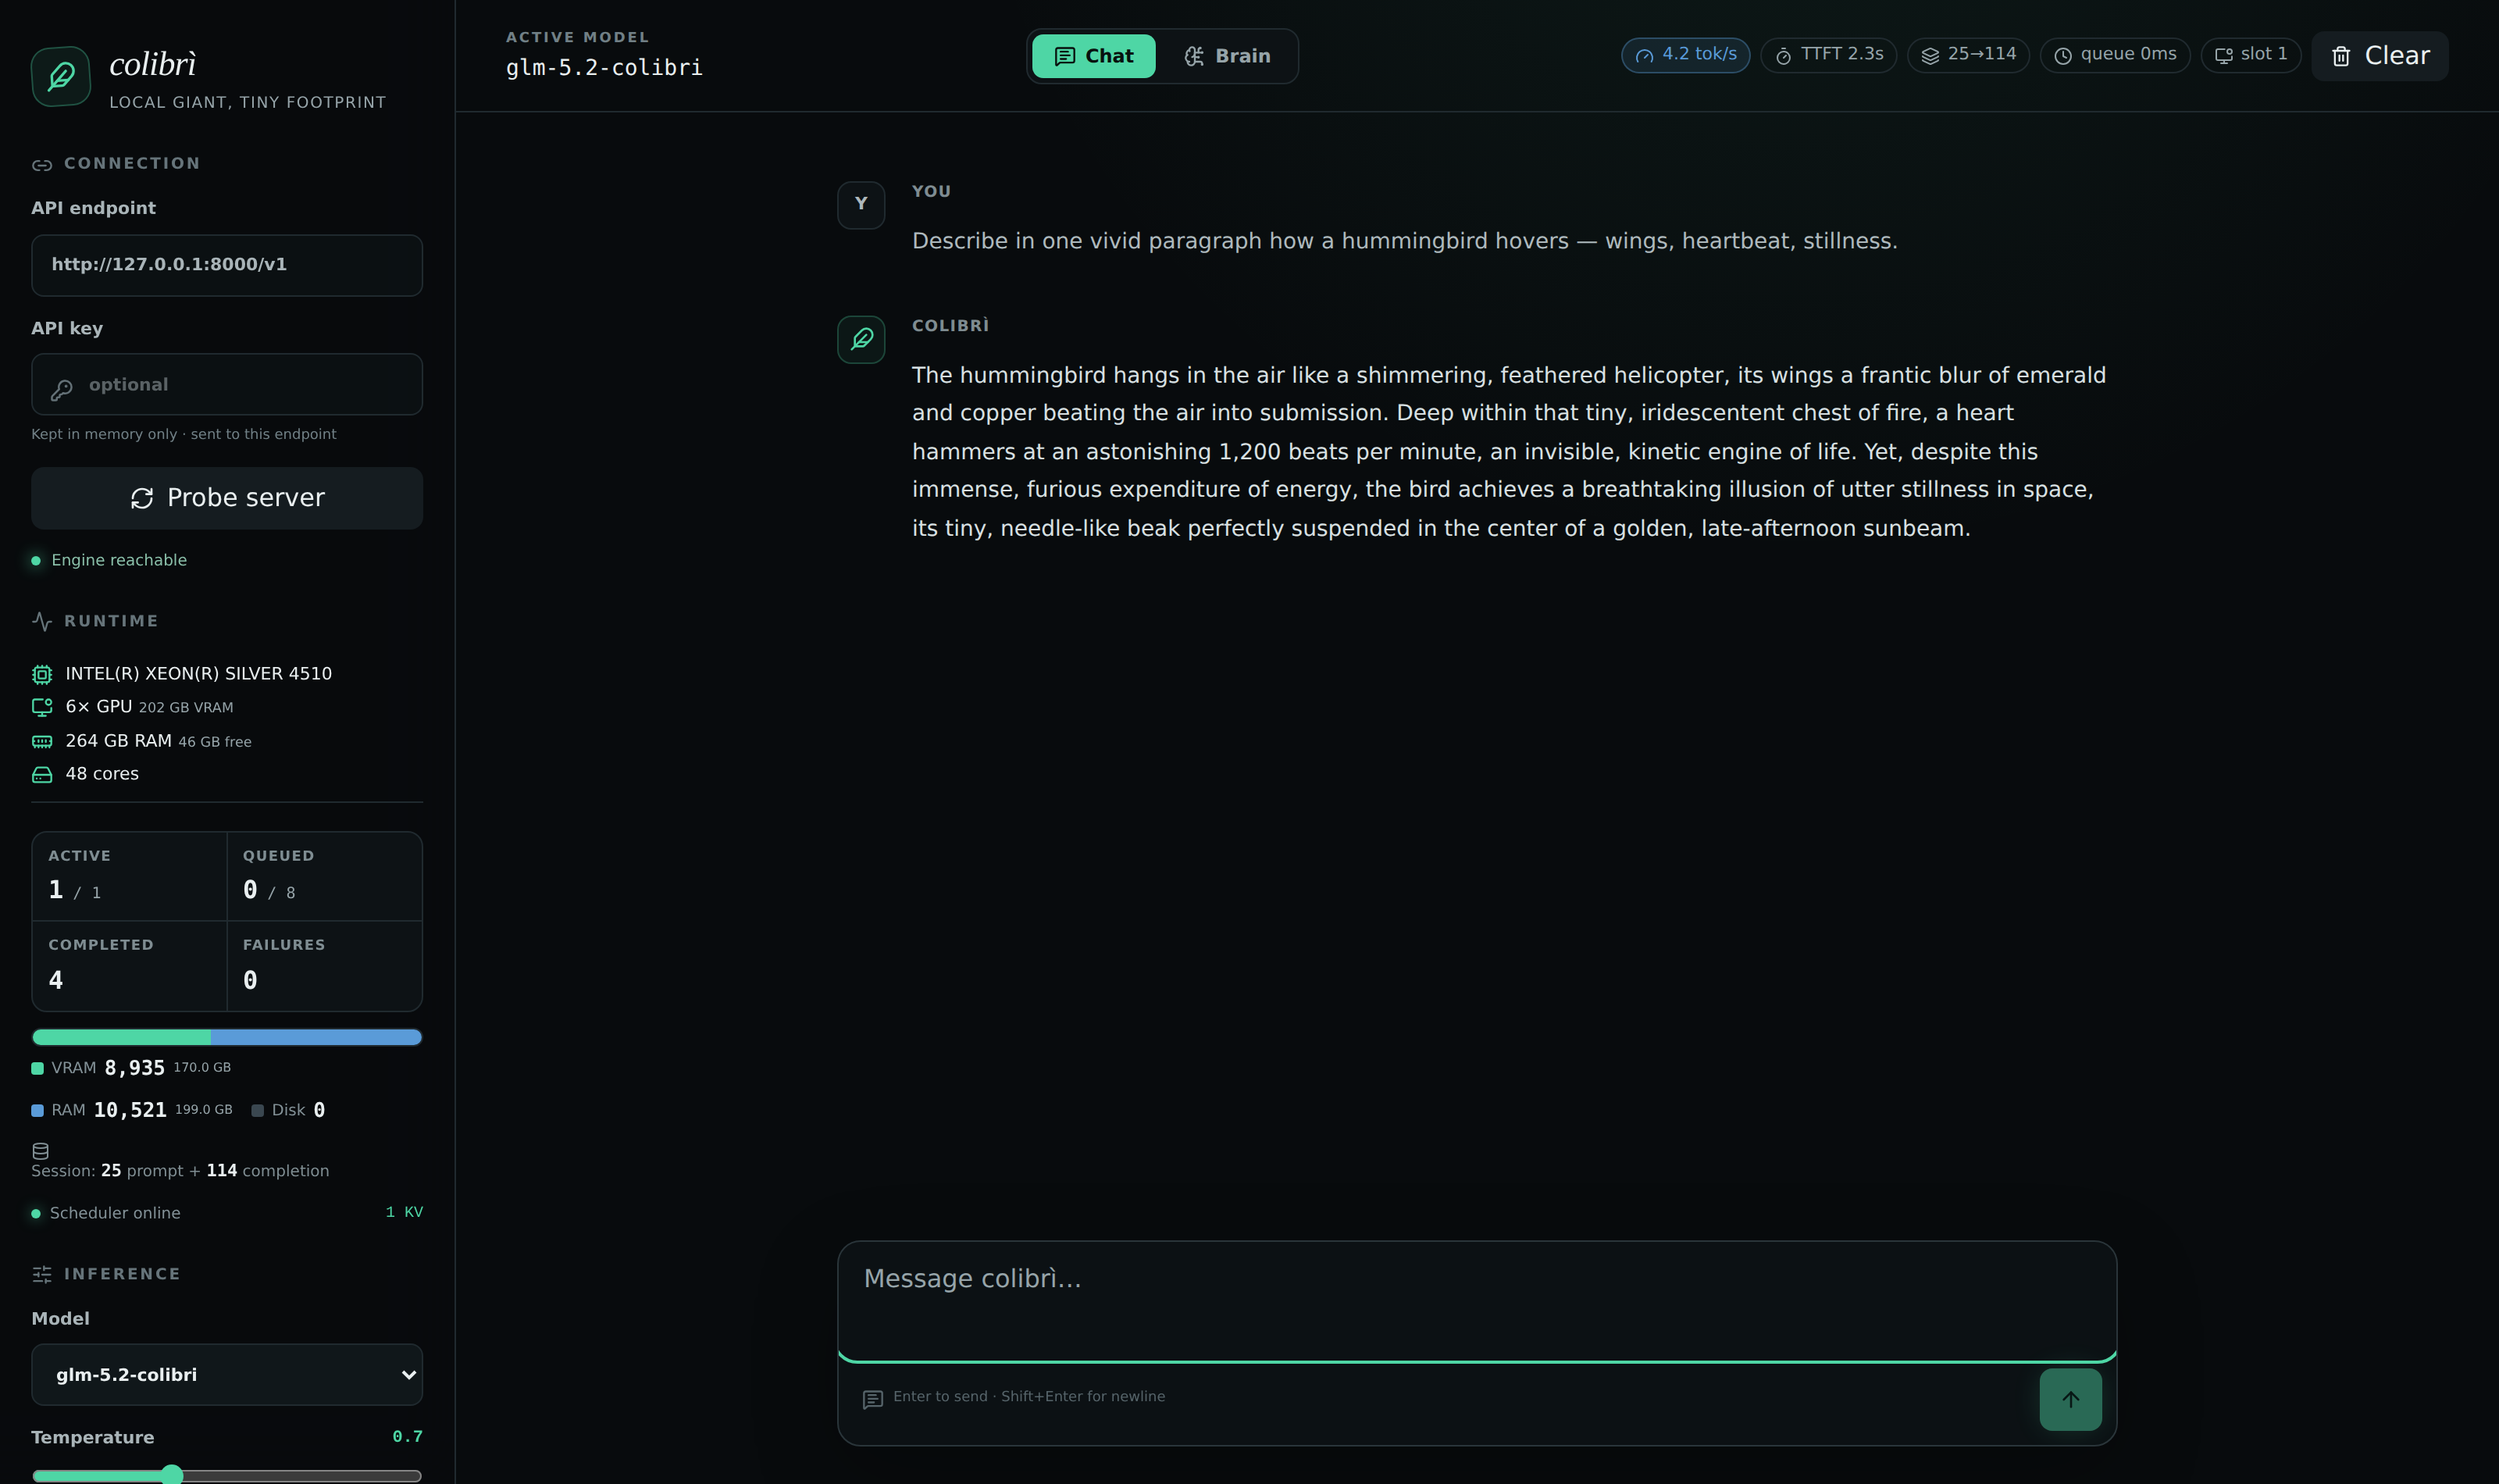
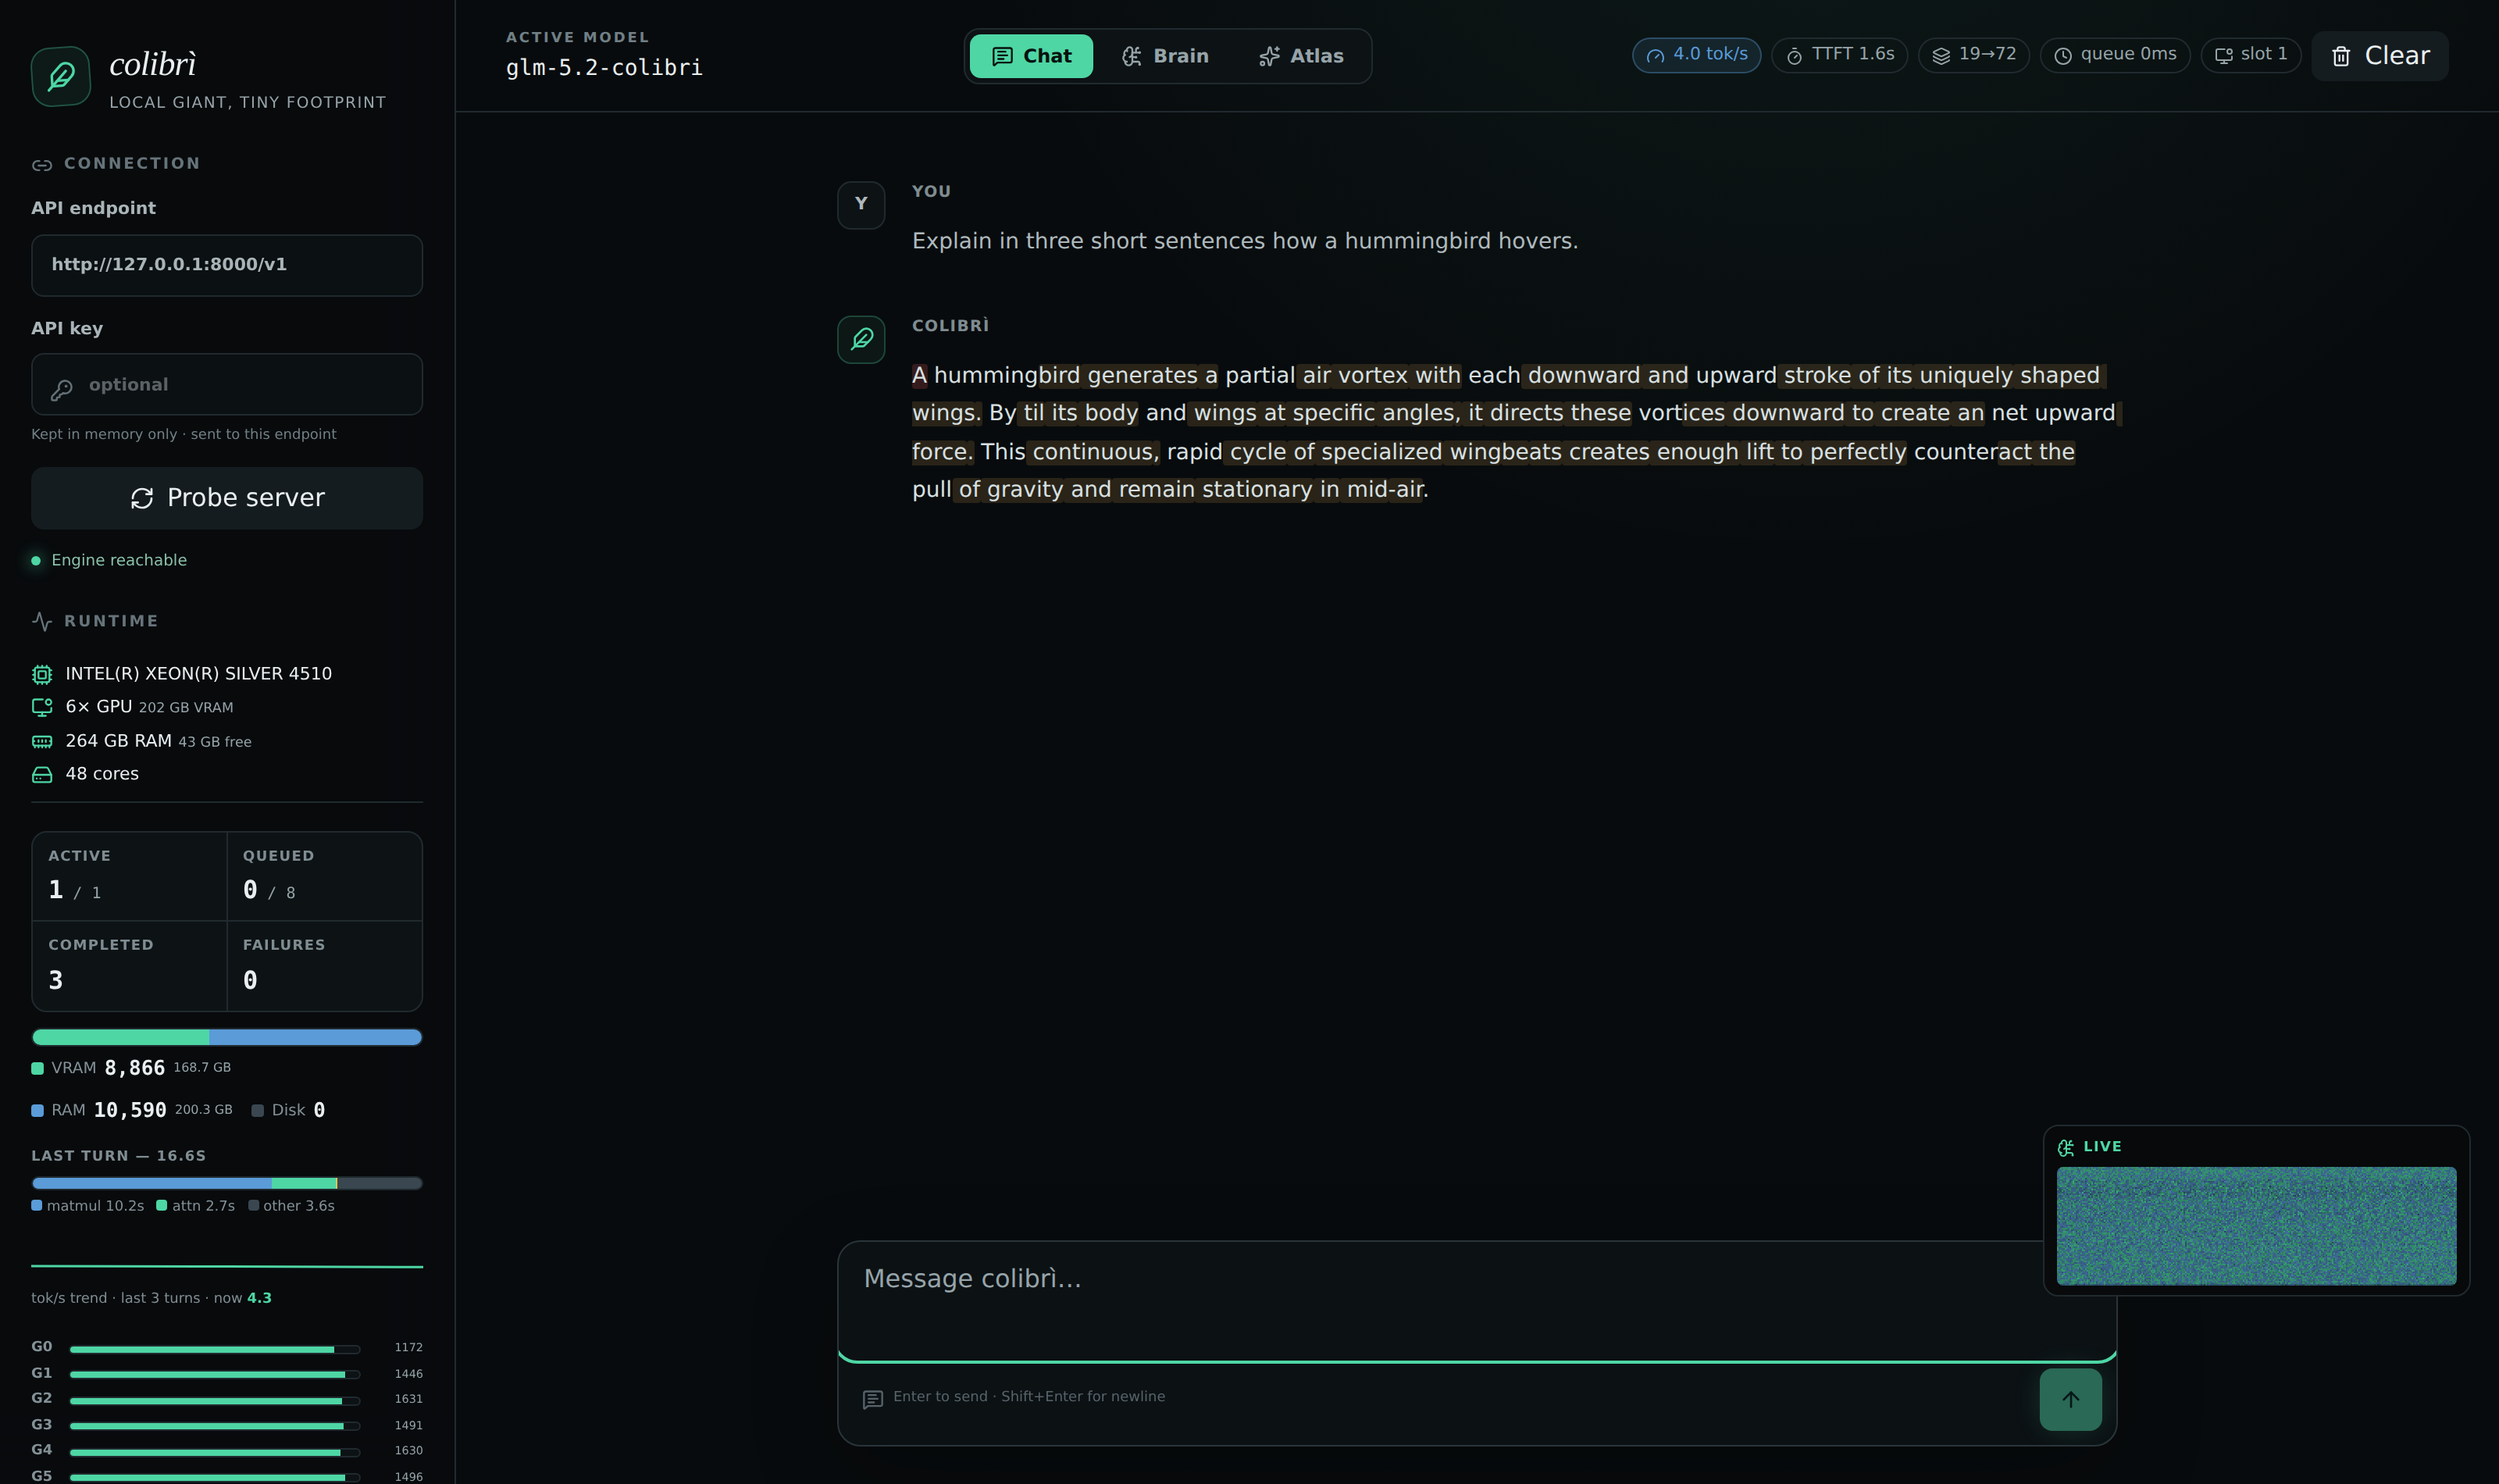
docs/media: refreshed dashboard shots (full-residency 4 tok/s, disk 0), new Atlas galaxy, phone + sidebar shots

diff --git a/README.md b/README.md
@@ -22,8 +22,9 @@ $ ./coli chat
 <p align="center">
   <img src="docs/media/colibri-dashboard.png" width="900" alt="colibrì web dashboard — live metrics, hardware panel, expert tiers">
 </p>
-<p align="center"><em>The web dashboard (<code>./coli web</code>): a 744B model answering on 6× RTX 5090 —
-live token metrics, the hardware panel, and the VRAM/RAM/disk expert tiers.</em></p>
+<p align="center"><em>The web dashboard (<code>./coli web</code>): a 744B model at <strong>4 tok/s, TTFT 1.6 s, disk 0</strong> —
+full expert residency on 6× RTX 5090, with live token metrics, the per-turn time breakdown,
+the VRAM/RAM/disk tier bar and the live mini-brain in the corner.</em></p>
 
 <p align="center">
   <img src="docs/media/colibri-brain.png" width="900" alt="the Brain page — 19,456 experts as a live cortex">
@@ -31,6 +32,13 @@ live token metrics, the hardware panel, and the VRAM/RAM/disk expert tiers.</em>
 <p align="center"><em>The <strong>Brain</strong> page: all 19,456 experts as a living cortex — colour is the storage tier,
 brightness is routing heat, and every expert routed in a turn flashes white. Hovering shows the expert's
 <a href="https://github.com/JustVugg/colibri/issues/175">measured topic affinity</a>.</em></p>
+
+<p align="center">
+  <img src="docs/media/colibri-atlas.png" width="900" alt="the Atlas page — the measured expert atlas as a 3-D galaxy">
+</p>
+<p align="center"><em>The <strong>Atlas</strong> page: the <a href="https://github.com/JustVugg/colibri/issues/175">measured expert atlas</a>
+as a 3-D galaxy — 13,260 characterised experts, 1,041 replicated specialists clustering by topic
+(poetry, law, Chinese, SQL…). Position is measured routing affinity, not a learned embedding. Drag to spin.</em></p>
 
 ## The idea
 
